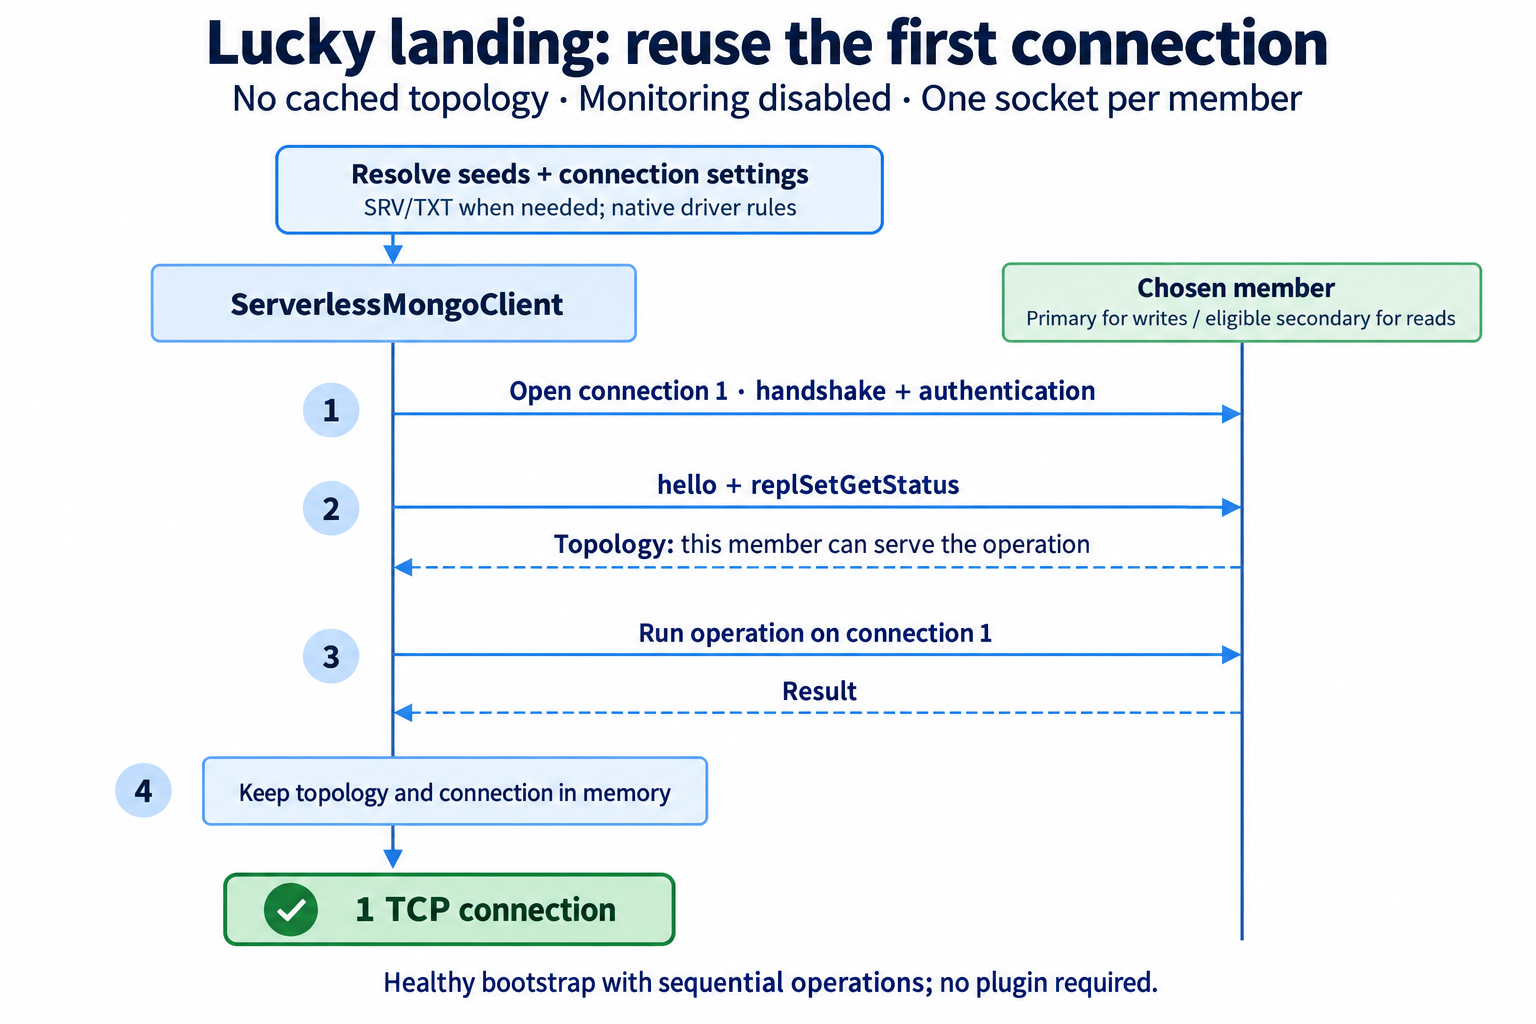
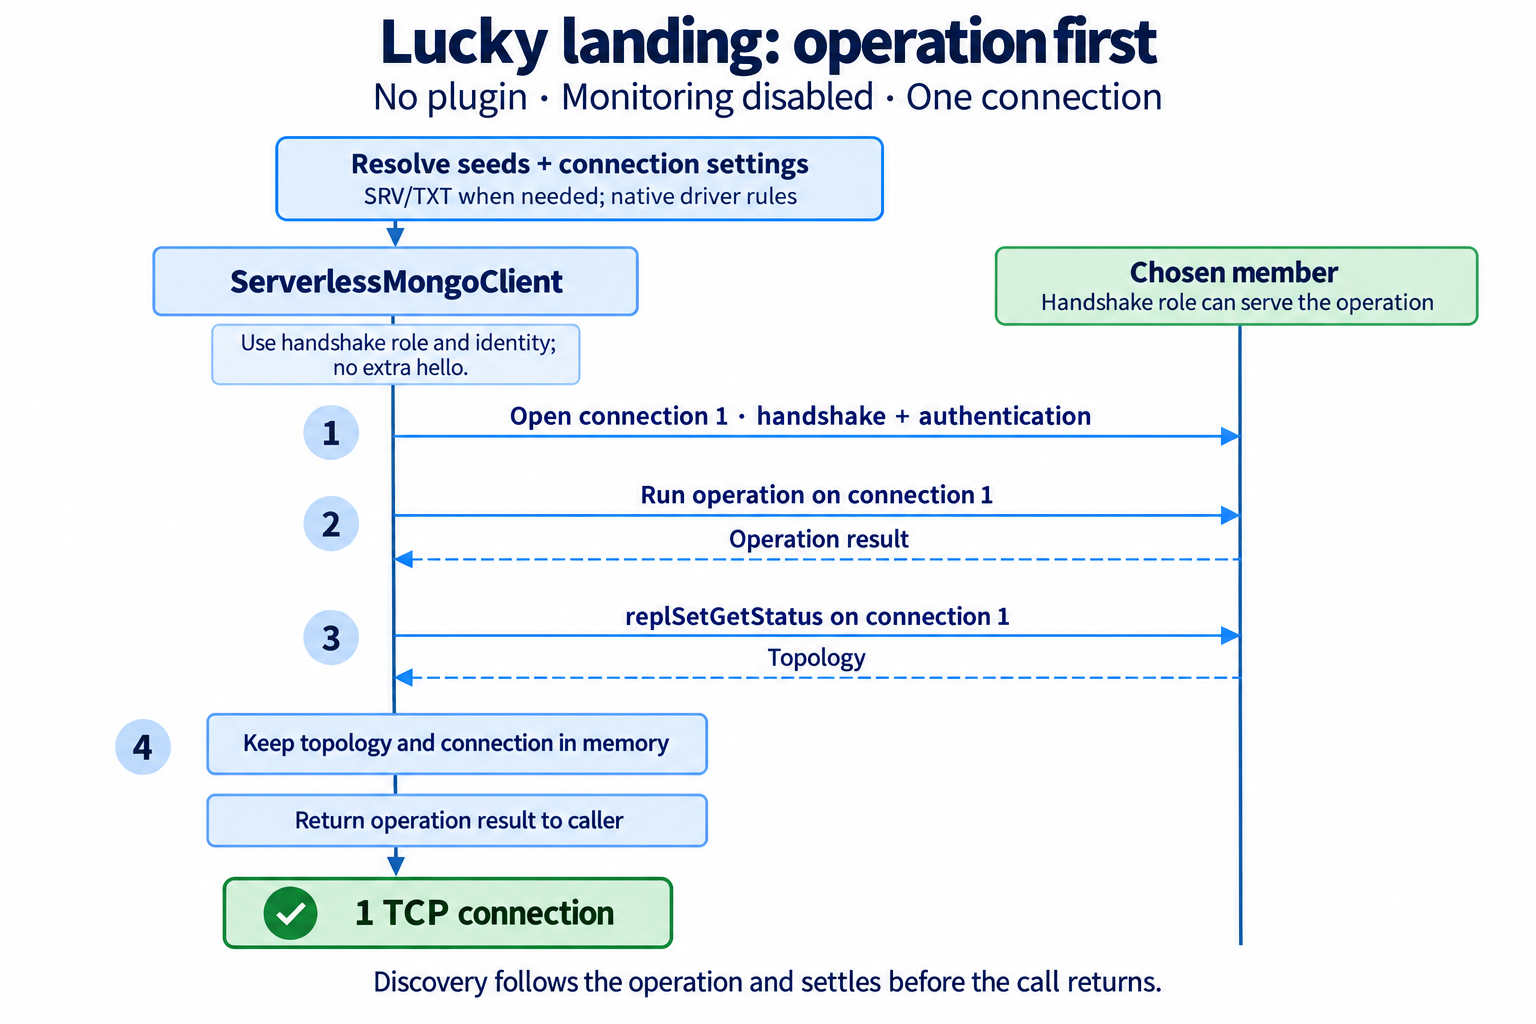
docs: show operation-first discovery on one connection

Changed region(s): [[0.0625, 0.0, 0.9688, 0.9688]]

diff --git a/docs/bootstrap.md b/docs/bootstrap.md
@@ -29,12 +29,15 @@ These diagrams show `disableMonitoring: true`, `maxPoolSize: 1`, and
 bootstrap and sequential operations. Concurrent work, failed seeds, idle socket
 replacement, and elections can require more connections.
 
-### Lucky landing: reuse the first connection
+### Lucky landing: operation first
 
 A write reuses a primary landing. An explicit operation-level `nearest` read
 reuses either healthy member role. Other reads keep the secondary-first policy
-and can use the primary when no healthy secondary exists. Discovery and the
-operation use the same authenticated connection.
+and can use the primary when no healthy secondary exists. The initial handshake
+supplies the role and identity. A suitable operation runs first; discovery then
+uses the same socket. The call waits for discovery to settle before returning,
+so a Lambda does not freeze unfinished work. There is no additional `hello`.
+Discovery does not open another connection even when the pool permits more.
 
 ![Discovery and the operation share one TCP connection](assets/bootstrap-reuse.png)
 
@@ -47,10 +50,12 @@ sequenceDiagram
     participant Seed as Chosen member
     Note over Driver: Resolve seeds and native connection settings<br/>SRV and TXT only for an SRV URI
     Driver->>Seed: Open connection 1; handshake and authenticate
-    Driver->>Seed: hello and replSetGetStatus
-    Seed-->>Driver: Topology; member can serve the operation
+    Note over Driver: Handshake role can serve the operation
     Driver->>Seed: Run operation on connection 1
-    Seed-->>Driver: Result
+    Seed-->>Driver: Operation result
+    Driver->>Seed: replSetGetStatus on connection 1
+    Seed-->>Driver: Topology
+    Note over Driver: Return operation result after discovery settles
     Note over Driver,Seed: Retain topology and connection in memory<br/>1 TCP connection; no monitor sockets
 ```
 
@@ -58,7 +63,8 @@ sequenceDiagram
 
 ### Other member needed: add one connection
 
-The selected member reports topology but has the wrong role for the operation.
+The initial handshake reports a role that cannot serve the operation. Discovery
+must finish before choosing another member.
 The client opens one connection to the required member and retains the first
 connection for operations that can use it. Unrestricted `nearest` reads reuse
 an eligible connected member; other reads prefer a connected healthy secondary.
@@ -75,8 +81,9 @@ sequenceDiagram
     participant Target as Required member
     Note over Driver: Resolve seeds and native connection settings<br/>SRV and TXT only for an SRV URI
     Driver->>Seed: Open connection 1; handshake and authenticate
-    Driver->>Seed: hello and replSetGetStatus
-    Seed-->>Driver: Topology; another member is needed
+    Note over Driver: Handshake role cannot serve the operation
+    Driver->>Seed: replSetGetStatus
+    Seed-->>Driver: Topology; locate the required member
     Driver->>Target: Open connection 2 with resolved authentication settings
     Driver->>Target: Run operation on connection 2
     Target-->>Driver: Result
@@ -116,8 +123,11 @@ perform handshake and authentication. SRV resolution and the monitoring patch
 use internal APIs verified against `mongodb@7.7.0`; stable versions in
 `>=7.7.0 <8.0.0` are accepted, with behavior rechecked on upgrades.
 
-Failed seeds are closed before trying another. A failed topology-store write
-closes the discovered connection and fails the operation. A successful bootstrap
+Failed seeds are closed before trying another. Plugin cache misses still discover
+and persist before operations; a failed topology-store write closes that
+connection and fails the operation. Without a plugin, discovery after an
+executed operation cannot change its result. A failed discovery is retried on
+the next call; routing to another member requires successful discovery. A successful bootstrap
 connection is owned by the wrapper and closes with it. No credentials are
 persisted in topology; optional shared records contain only the authentication
 mechanism and resolved source alongside replica-set status.
@@ -137,13 +147,15 @@ that count actual sockets. Only DNS records are stubbed for SRV tests.
 | Case | Assertion |
 |---|---|
 | Cached role mismatch | Refresh and persist before the read; the next cold start uses the corrected record |
-| Primary landing, first write | Discovery and insert share one socket |
-| Secondary landing, first read | Discovery and find share one socket, even when another secondary is listed first |
+| Primary landing, first write | Insert precedes discovery; both share one socket, including with the default pool size |
+| Secondary landing, first read | Find precedes discovery on the same socket, even when another secondary is listed first |
 | Wrong role, first read or write | Two sockets; correct member serves the operation |
 | Later reads and writes | Reuse the retained primary and secondary |
 | Concurrent first writes | One discovery and one socket with a pool limit of one |
 | SRV, TXT, SCRAM and TLS | One authenticated socket; resolved source survives into operations |
 | Explicit TLS opt-out | Bootstrap and a new wrapper using cached topology both preserve it |
+| Discovery failure after an operation | Preserve its result; retry discovery on the next call |
+| Closed client | Reject before opening a bootstrap connection |
 | Failed handshake | Close the failed client, then try another seed |
 | Failed persistence or concurrent close | Close the discovered socket; do not execute the application operation |
 | Invalid DNS or URI options | Reject before opening a connection |

diff --git a/benchmark/LAMBDA.md b/benchmark/LAMBDA.md
@@ -80,8 +80,10 @@ records the timing source; neither includes container provisioning.
 - Native and no-plugin execution environments each fetch the URI through `GetParameter` with
   decryption, then perform SRV and TXT resolution. Warm invocations reuse the existing client.
 - No-plugin reads explicitly permit either healthy member role with `nearest`.
-  They reuse the discovery connection. Writes reuse a primary landing or open one
-  additional connection after a secondary landing. Both landing groups are reported
+  A suitable operation runs before discovery on the same connection. The call
+  waits for discovery before returning, and its time remains in the handler total.
+  Writes reuse a primary landing or open one additional connection after a
+  secondary landing. Discovery uses handshake identity without another hello. Both landing groups are reported
   with their observed sample counts; random selection is not forced.
 - During INIT, the SSM variant fetches URI and topology together with `GetParameters`.
   Cache hits open one authenticated direct connection, without SRV/TXT or discovery.
